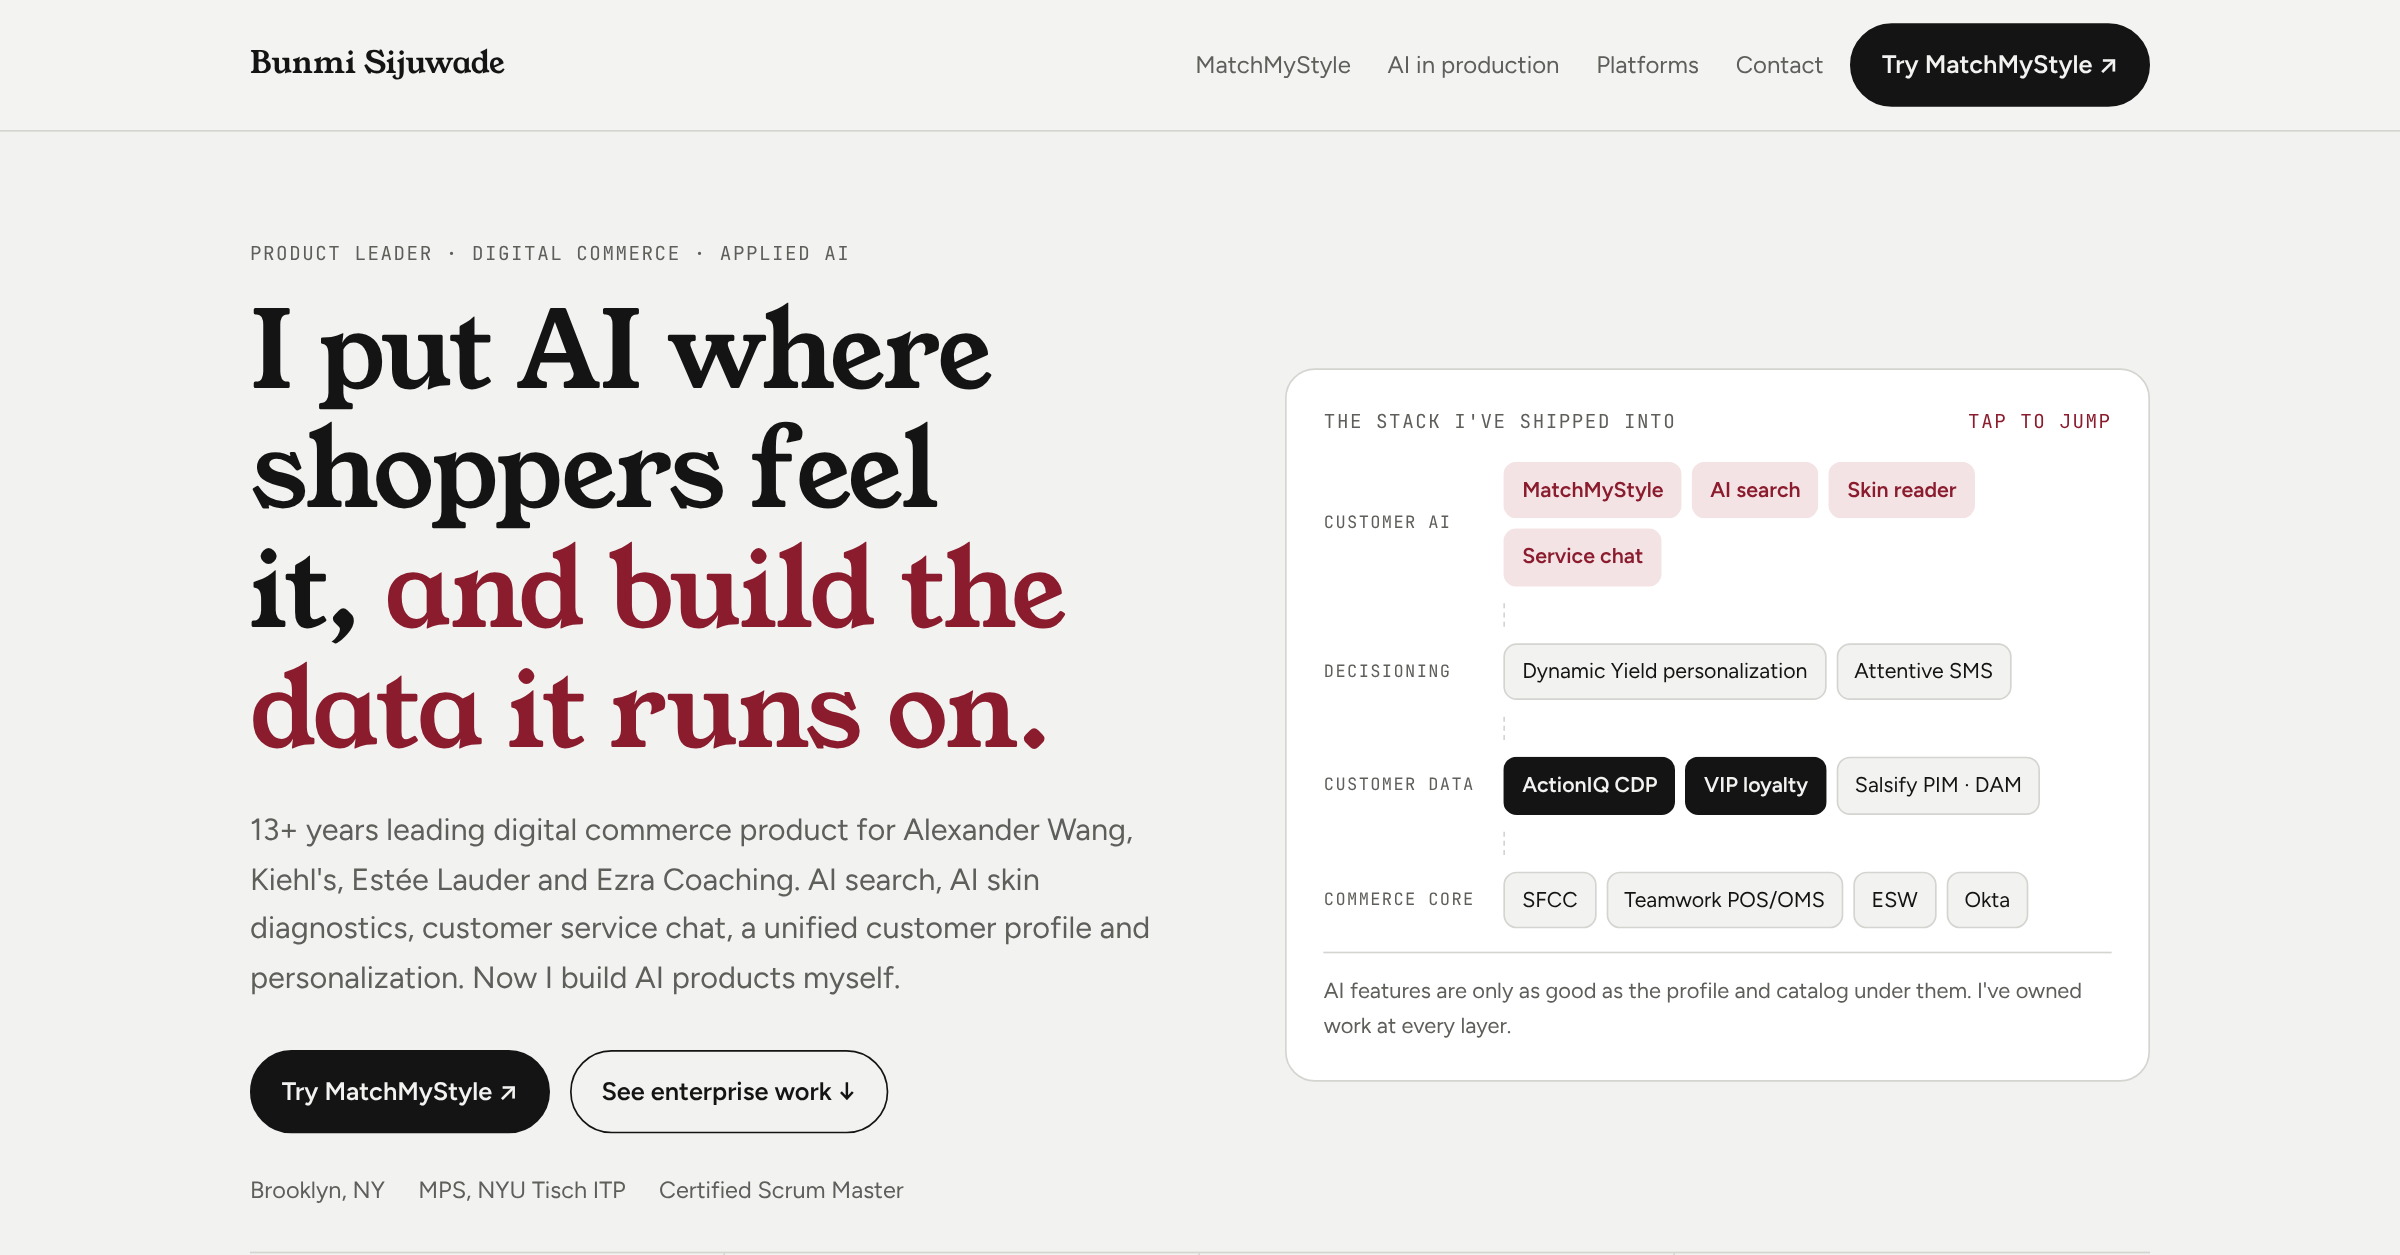
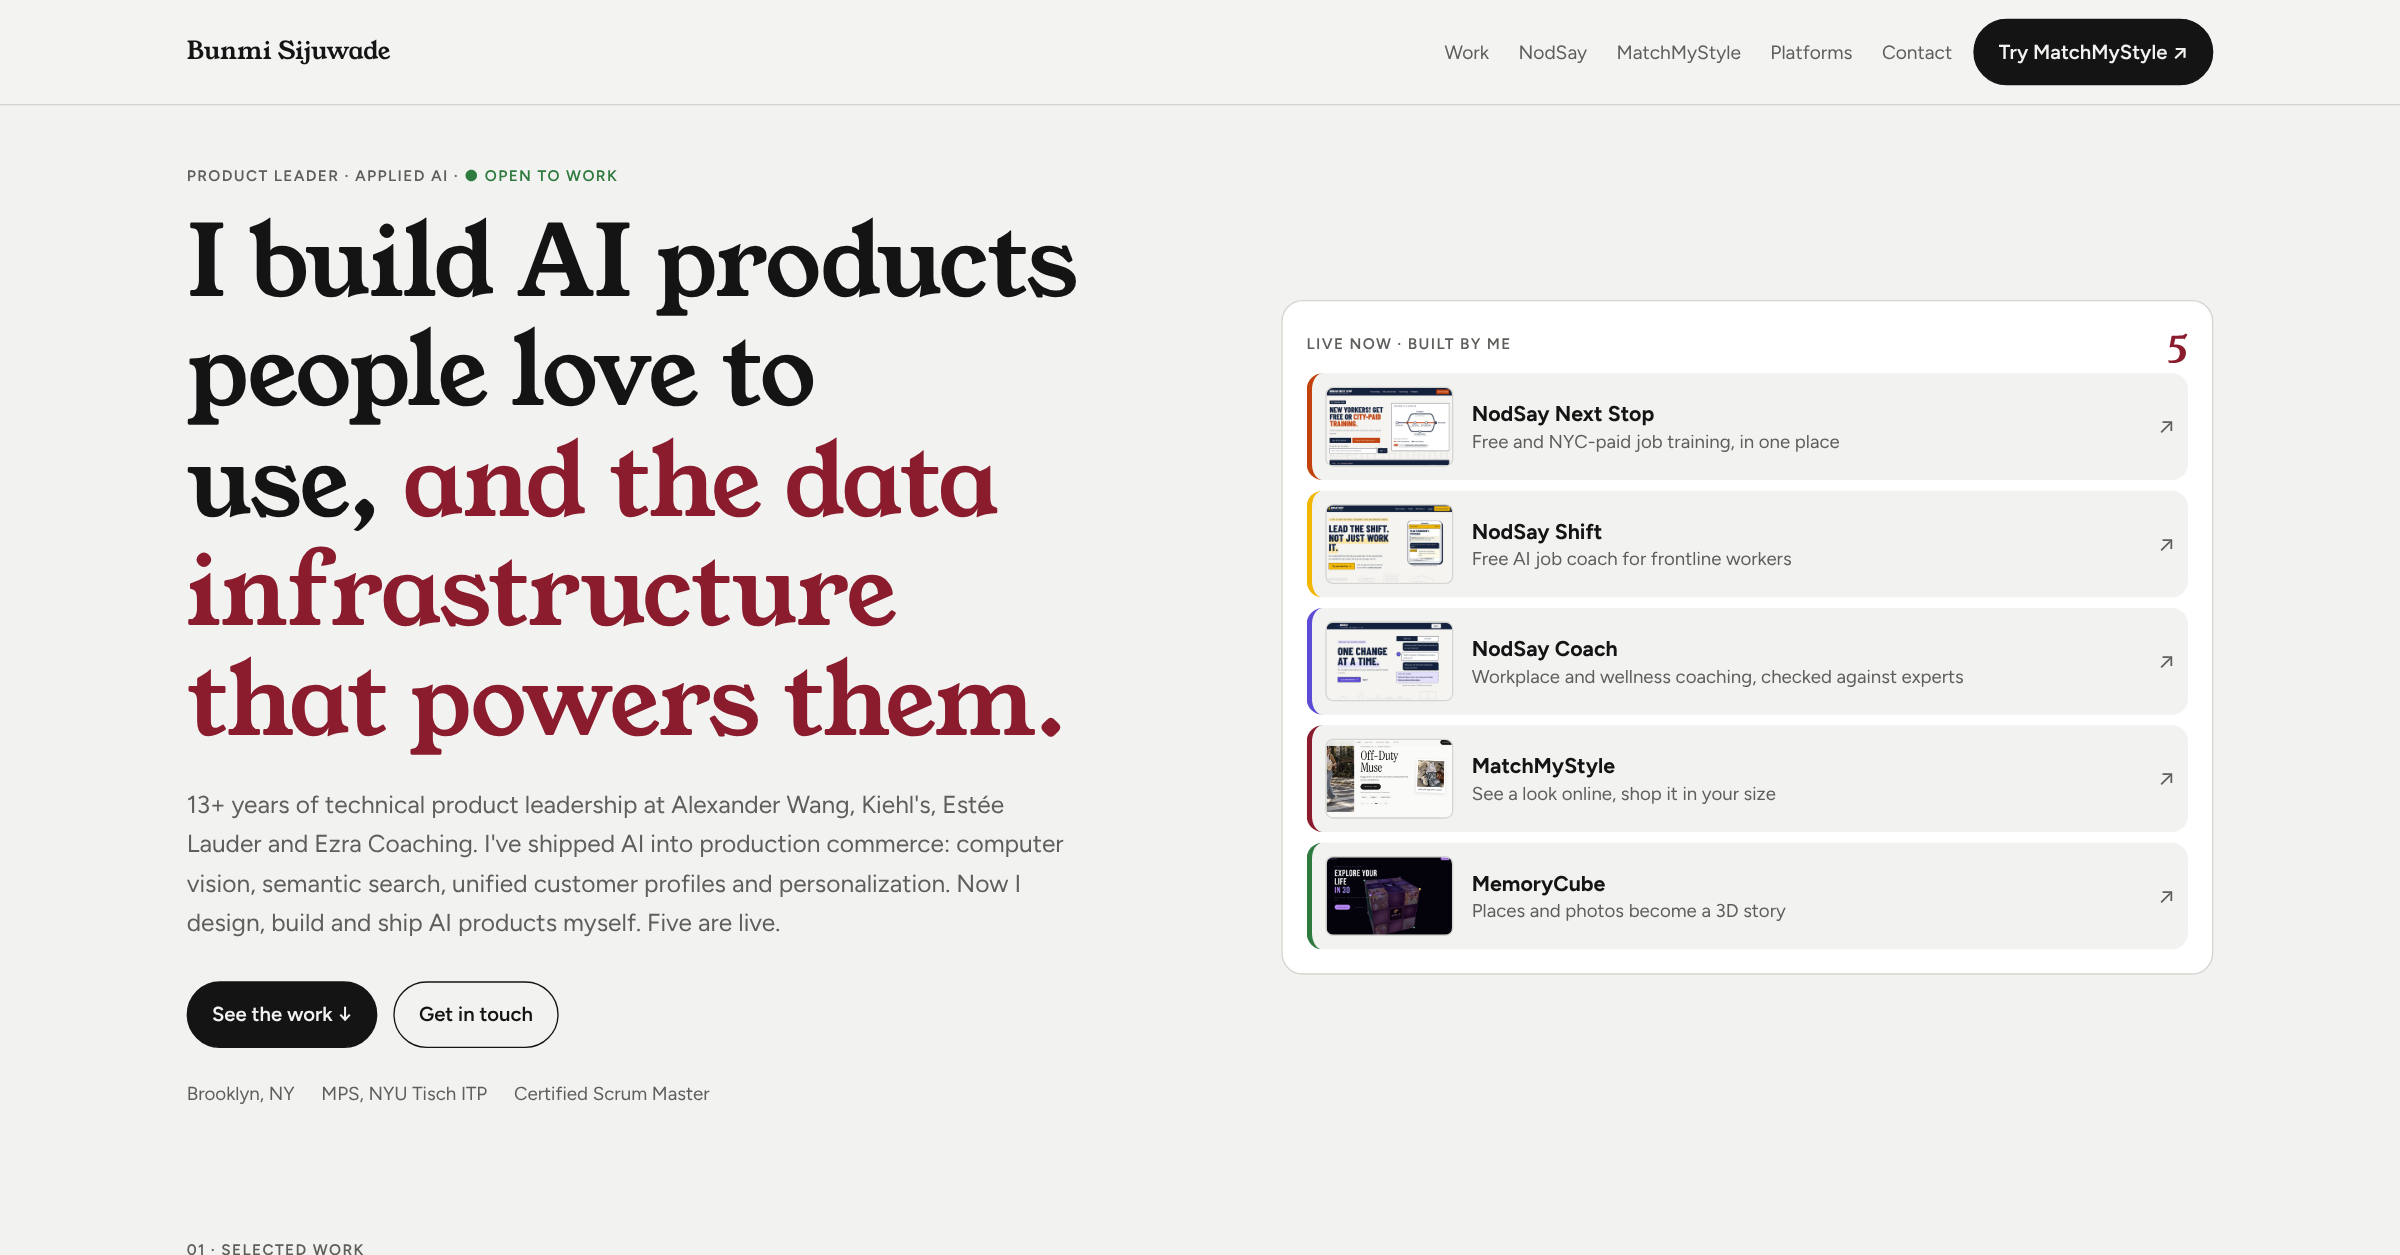
Portfolio: new share image from the current hero; footer notes NodSay screens are real
Claude-Session: https://claude.ai/code/session_011DPP3x5dEfbGThw64Enx5j

diff --git a/index.html b/index.html
@@ -9,11 +9,11 @@
 <meta property="og:url" content="https://bunmi-portfolio.vercel.app/">
 <meta property="og:title" content="Bunmi Sijuwade | Product Leader, Digital Commerce &amp; AI">
 <meta property="og:description" content="AI search, AI skin diagnostics, customer data and personalization for luxury and beauty brands. Plus AI products I build myself, like MatchMyStyle and the NodSay apps.">
-<meta property="og:image" content="https://bunmi-portfolio.vercel.app/og.png">
+<meta property="og:image" content="https://bunmi-portfolio.vercel.app/og.png?v=2">
 <meta property="og:image:width" content="2400">
 <meta property="og:image:height" content="1255">
 <meta name="twitter:card" content="summary_large_image">
-<meta name="twitter:image" content="https://bunmi-portfolio.vercel.app/og.png">
+<meta name="twitter:image" content="https://bunmi-portfolio.vercel.app/og.png?v=2">
 <title>Bunmi Sijuwade | Product Leader, Digital Commerce &amp; AI</title>
 <link rel="preconnect" href="https://fonts.googleapis.com">
 <link rel="preconnect" href="https://fonts.gstatic.com" crossorigin>
@@ -784,7 +784,7 @@ footer .wrap{display:flex;justify-content:space-between;gap:12px;flex-wrap:wrap}
     </div>
   </section>
 </main>
-<footer><div class="wrap"><span>Bunmi Sijuwade · Brooklyn, NY</span><span>MatchMyStyle and MemoryCube screens are real. Enterprise case screens are illustrations.</span></div></footer>
+<footer><div class="wrap"><span>Bunmi Sijuwade · Brooklyn, NY</span><span>MatchMyStyle, MemoryCube and NodSay screens are real. Enterprise case screens are illustrations.</span></div></footer>
 
 
 </body>
